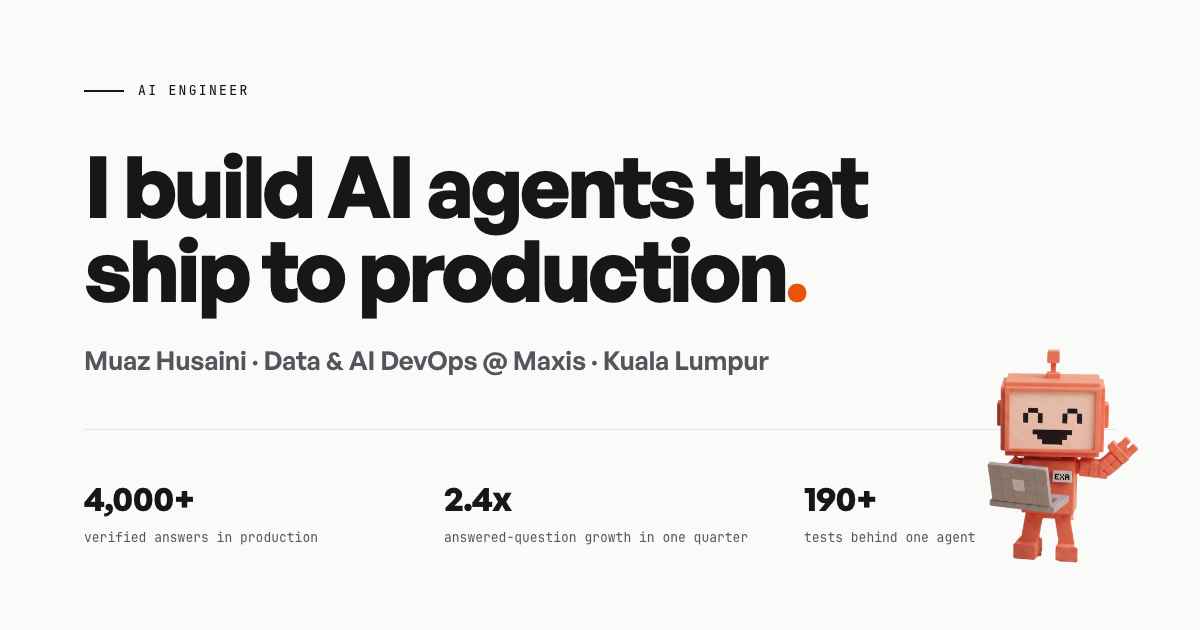
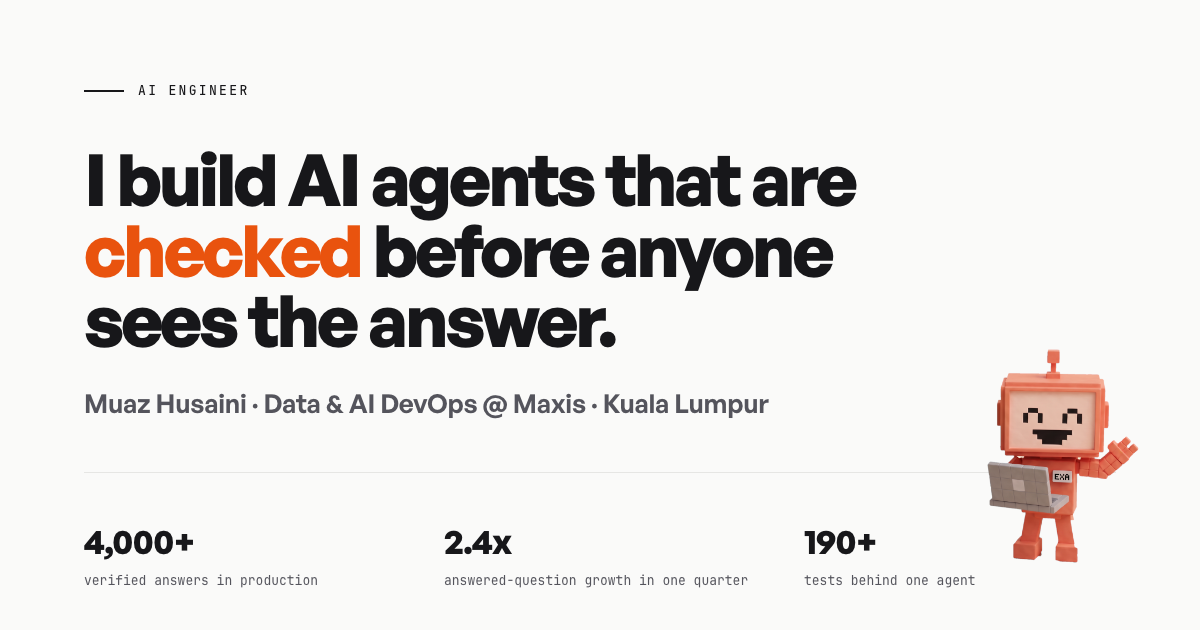
feat: align 404, og card and mascot docs with v2

diff --git a/index.html b/index.html
@@ -12,7 +12,7 @@
   <meta property="og:image" content="https://mmuazhr.github.io/og-card.png">
   <meta property="og:image:width" content="1200">
   <meta property="og:image:height" content="630">
-  <meta property="og:image:alt" content="Muaz Husaini, AI Engineer — I build AI agents that ship to production.">
+  <meta property="og:image:alt" content="Muaz Husaini, AI Engineer — I build AI agents that are checked before anyone sees the answer.">
   <meta name="twitter:card" content="summary_large_image">
   <meta name="twitter:title" content="Muaz Husaini, AI Engineer">
   <meta name="twitter:description" content="I build AI agents that are checked before anyone sees the answer. Multi-agent systems on Google Cloud, in production at Maxis.">

diff --git a/404.html b/404.html
@@ -76,13 +76,13 @@
 <body>
   <header class="site-head">
     <div class="wrap head-row">
-      <p class="brand">Muaz Husaini <span class="avail">Open to roles</span></p>
+      <a class="brand" href="/">Muaz Husaini</a>
       <nav aria-label="Sections">
         <a href="/#work">Work</a>
         <a href="/#builds">Builds</a>
         <a href="/#experience">Experience</a>
-        <a href="/muaz-husaini-cv.pdf">CV</a>
         <a href="/#contact">Contact</a>
+        <a class="nav-cv" href="/muaz-husaini-cv.pdf">CV<span class="visually-hidden"> (PDF)</span></a>
       </nav>
     </div>
   </header>

diff --git a/og-source.html b/og-source.html
@@ -78,7 +78,7 @@
 
   h1 {
     margin-top: 46px;
-    font-size: 86px;
+    font-size: 72px;
     font-weight: 700;
     letter-spacing: -0.045em;
     line-height: 0.98;
@@ -127,7 +127,7 @@
   <img class="og-exa" src="assets/mascots/exa-source.png" alt="">
   <p class="eyebrow">AI Engineer</p>
 
-  <h1>I build AI agents that<br>ship to production<span class="sig">.</span></h1>
+  <h1>I build AI agents that are<br><span class="sig">checked</span> before anyone<br>sees the answer.</h1>
 
   <p class="sub">Muaz Husaini &middot; Data &amp; AI DevOps @ Maxis &middot; Kuala Lumpur</p>
 

diff --git a/docs/v2/ARCHITECTURE.md b/docs/v2/ARCHITECTURE.md
@@ -1,0 +1,61 @@
+# V2 Architecture
+
+Static site, no build step, no dependencies. Three files carry the page: `index.html` (content and structure), `styles.css` (design system and layout), `script.js` (three progressive enhancements). Everything below is implemented and verified in the browser; this document describes what shipped, not a plan.
+
+## Component tree
+
+```
+header.site-head            sticky, section-aware (aria-current="true" on the active link)
+main#top
+  section.hero              eyebrow · h1 claim · lede · proof strip (3 figures) · 3 CTAs
+  section#work
+    article.cs#nl2sql       cs-head · cs-cols (Problem | Decision) · .trace · metrics · details.notes · stack
+    article.cs#qa-harness   same template
+    article.cs#job-agent    same template
+    article.cs#self-improving   cs-head · cs-cols (Decision | .merge diagram) · metrics
+    article.cs.cs-quiet#bundle  coda, one large paragraph, Exa in the right gutter ≥1380px
+  section#builds            ledger (4)
+  section#experience        timeline (5)
+  section#skills            proofs (8 skill → anchor pairs)
+  section#contact.dark      h2 · CTAs · note · links · mascot note · Exa on the band edge
+footer.dark                 location · link to /v1/
+```
+
+## The trace
+
+Markup: `.trace[data-trace]` → `.trace-bar` (label, `fieldset.scn` with two radios, prev/next buttons) → `ol.stages` → `li.stage[data-state-a][data-state-b]` → `button.stage-btn` (name + sub) and `.stage-body` holding one `<p data-scn="a">` and one `<p data-scn="b">`. One `img.trace-naro` per trace.
+
+State (per trace, in `initTrace`):
+
+| Variable | Meaning |
+|---|---|
+| `scenario` | `"a"` or `"b"`, from the checked radio |
+| `index` | active stage, 0..4 |
+| `timer` | autoplay interval or null |
+| `touched` | true once the reader has interacted; cancels the one-time autoplay |
+
+Render writes: `data-scenario` on the trace (selects which `[data-scn]` text is visible), `data-state` on each stage (copied from `data-state-{scenario}`; values `pass | warn | caught | abstain | skip`), classes `active | done | todo`, `aria-current="step"` on the active button, `data-active-state` on the trace (shows Naro for `caught` / `abstain`), disabled state of prev/next.
+
+Motion: only state changes. Connector segments and node fills transition colour (0.25–0.3s). Autoplay runs once when the trace is 55% in view, 1.5s per stage, unless the reader has already interacted or `prefers-reduced-motion` is set. Switching scenario restarts at stage 0 and plays.
+
+Keyboard: stage buttons are real buttons (Tab, Enter/Space). Arrow keys, Home and End move between stages when a stage button has focus. Scenario radios get the native radio-group arrow behaviour. Prev/next have `aria-label`s.
+
+## Responsive adaptation
+
+| Width | Trace | Elsewhere |
+|---|---|---|
+| ≥861px (JS) | Five nodes in one row with connectors; the active stage's body renders in a single panel below the row (`.stage { display: contents }`, body in grid row 2). Naro bottom-right of the panel. | Two-column Problem/Decision, section head as h2 + note side by side |
+| <861px or no JS | Vertical list; the active stage's body opens directly under its node (accordion). Naro 64px at the trace's bottom-right. | Single column everywhere, timeline stacks, merge diagram stacks |
+| ≤600px | Label + arrows on one row, scenario switch full-width beneath | 54px header, smaller nav, hero h1 10vw, 3-column proof strip kept |
+
+## CSS system
+
+Tokens in `:root`: paper `#FAFAF9`, paper-2 `#F3F3F0`, ink `#17171A`, graphite `#54545C`, hairline `#E6E6E4`, line `#C9C9C6`, signal `#E9530E`, signal-soft `#FBE3D6`. Fonts: General Sans variable (self-hosted, preloaded) for text, JetBrains Mono Regular only for labels, figures captions and node text (the Medium weight was dropped, −93KB).
+
+Rule for orange: it marks a check. Hero `em`, `caught`/`abstain` node states and their connectors, the primary CTA. Nothing else.
+
+Reduced motion: one block at the end of the stylesheet zeroes all transitions and animations; JS separately skips autoplay, count-in and the Exa animations.
+
+## Accessibility
+
+Semantic landmarks and headings (`h1` → `h2` per section → `h3` per item), skip link, visible focus rings (ink on paper, paper on ink), `aria-labelledby` on sections, `role="img"` with descriptive `aria-label` on the static merge diagram, decorative mascots `alt=""` + `aria-hidden`. The trace is an ordered list of buttons, so screen readers get "list, 5 items" and can read every stage; the scenario switch is a fieldset of radios with a hidden legend. Native `<details>` for engineering notes. Lighthouse accessibility 100 on desktop and mobile.

diff --git a/character-sheet.md b/character-sheet.md
@@ -152,9 +152,9 @@ it is the page's subject.
 
 | Where | Asset | Behaviour |
 |---|---|---|
-| `#contact` band | `exa.png` | Perched on the band's top edge. Fades in on scroll, bobs gently, small excited hop when the contact CTA is hovered or focused. |
-| `#bundle` right gutter | `assets/mascots/exa-sit.png` | Seated on the rule that closes the case studies, laptop on her lap. |
-| `#builds` left gutter | `assets/mascots/naro-scout.png` | Scouting, hand shading his eyes — "on patrol", surveying the independent builds. |
+| `#contact` band | `exa.png` | Perched on the band's top edge. Bobs gently, small excited hop when the contact CTA is hovered or focused. |
+| `#bundle` right gutter | `assets/mascots/exa-sit.png` | Seated on the rule that closes the case studies, laptop on her lap. ≥1380px only. |
+| Every `.trace` | `assets/mascots/naro-scout.png` | Appears at the bottom-right of the trace whenever the active stage's state is `caught` or `abstain`: "on patrol, so he turns up wherever a check catches something." All viewport sizes (64px on mobile). |
 | `404.html` | `assets/mascots/naro-adrift.png` | Floating untethered with a worried face. Slow drift loop. |
 
 **Naro no longer has a fixed bottom-left corner peek.** It was removed on
